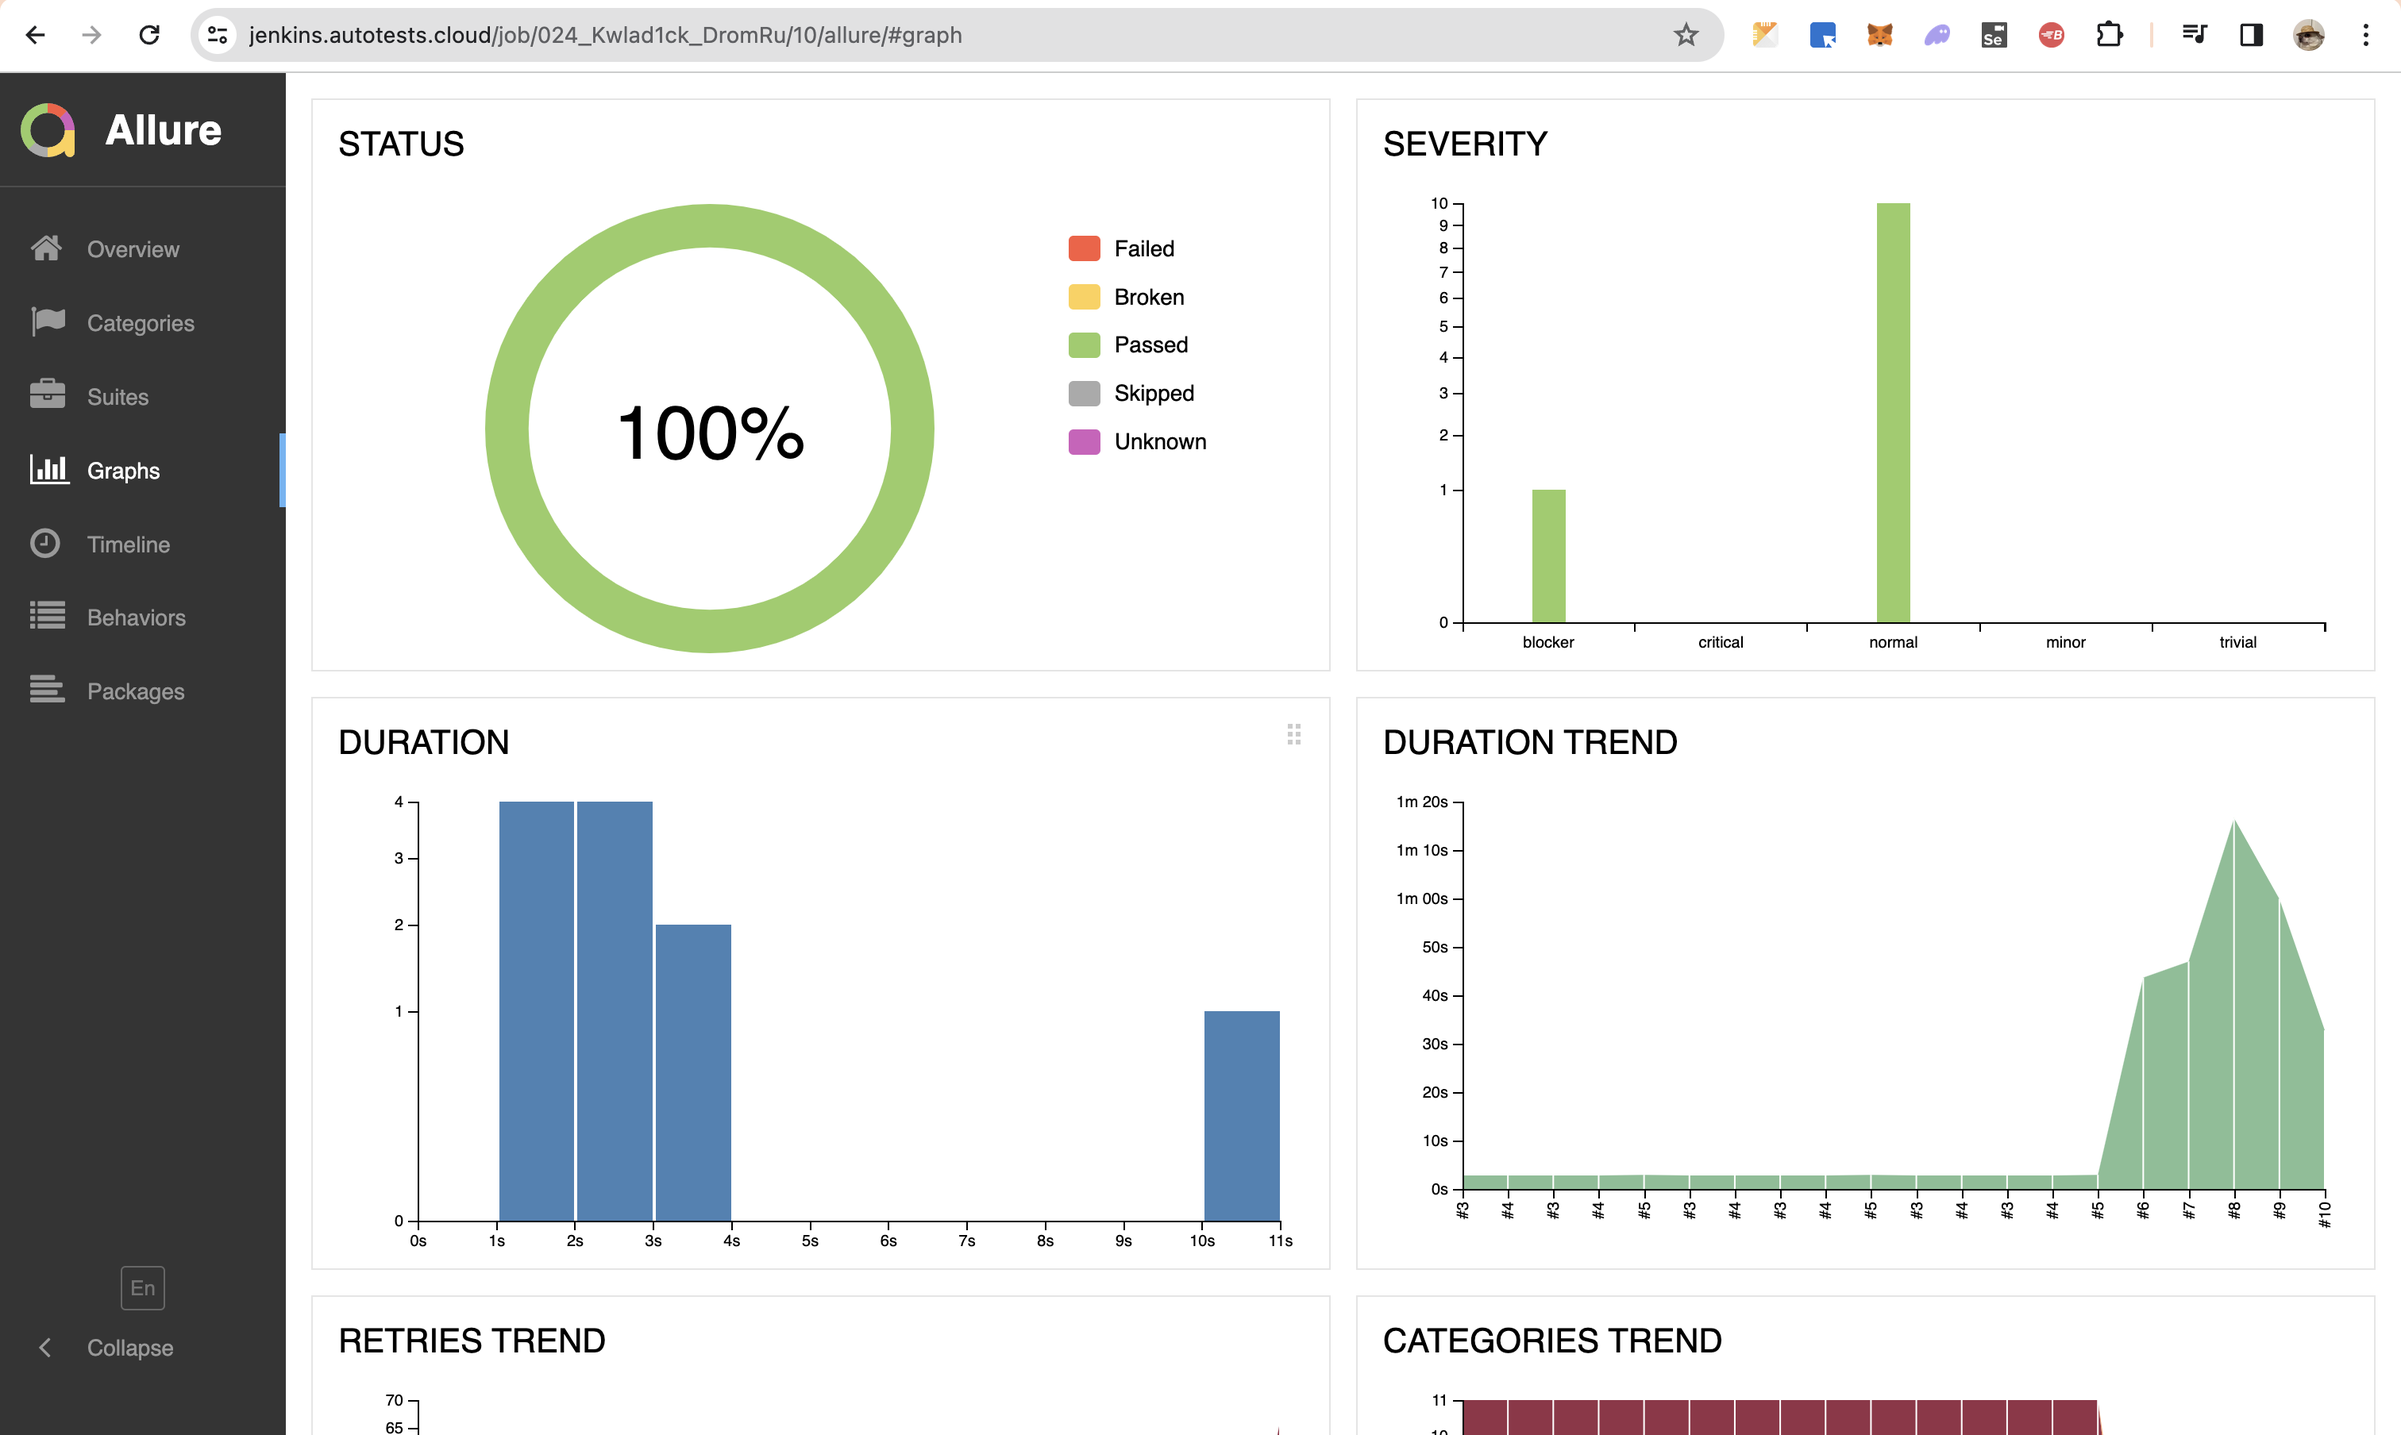
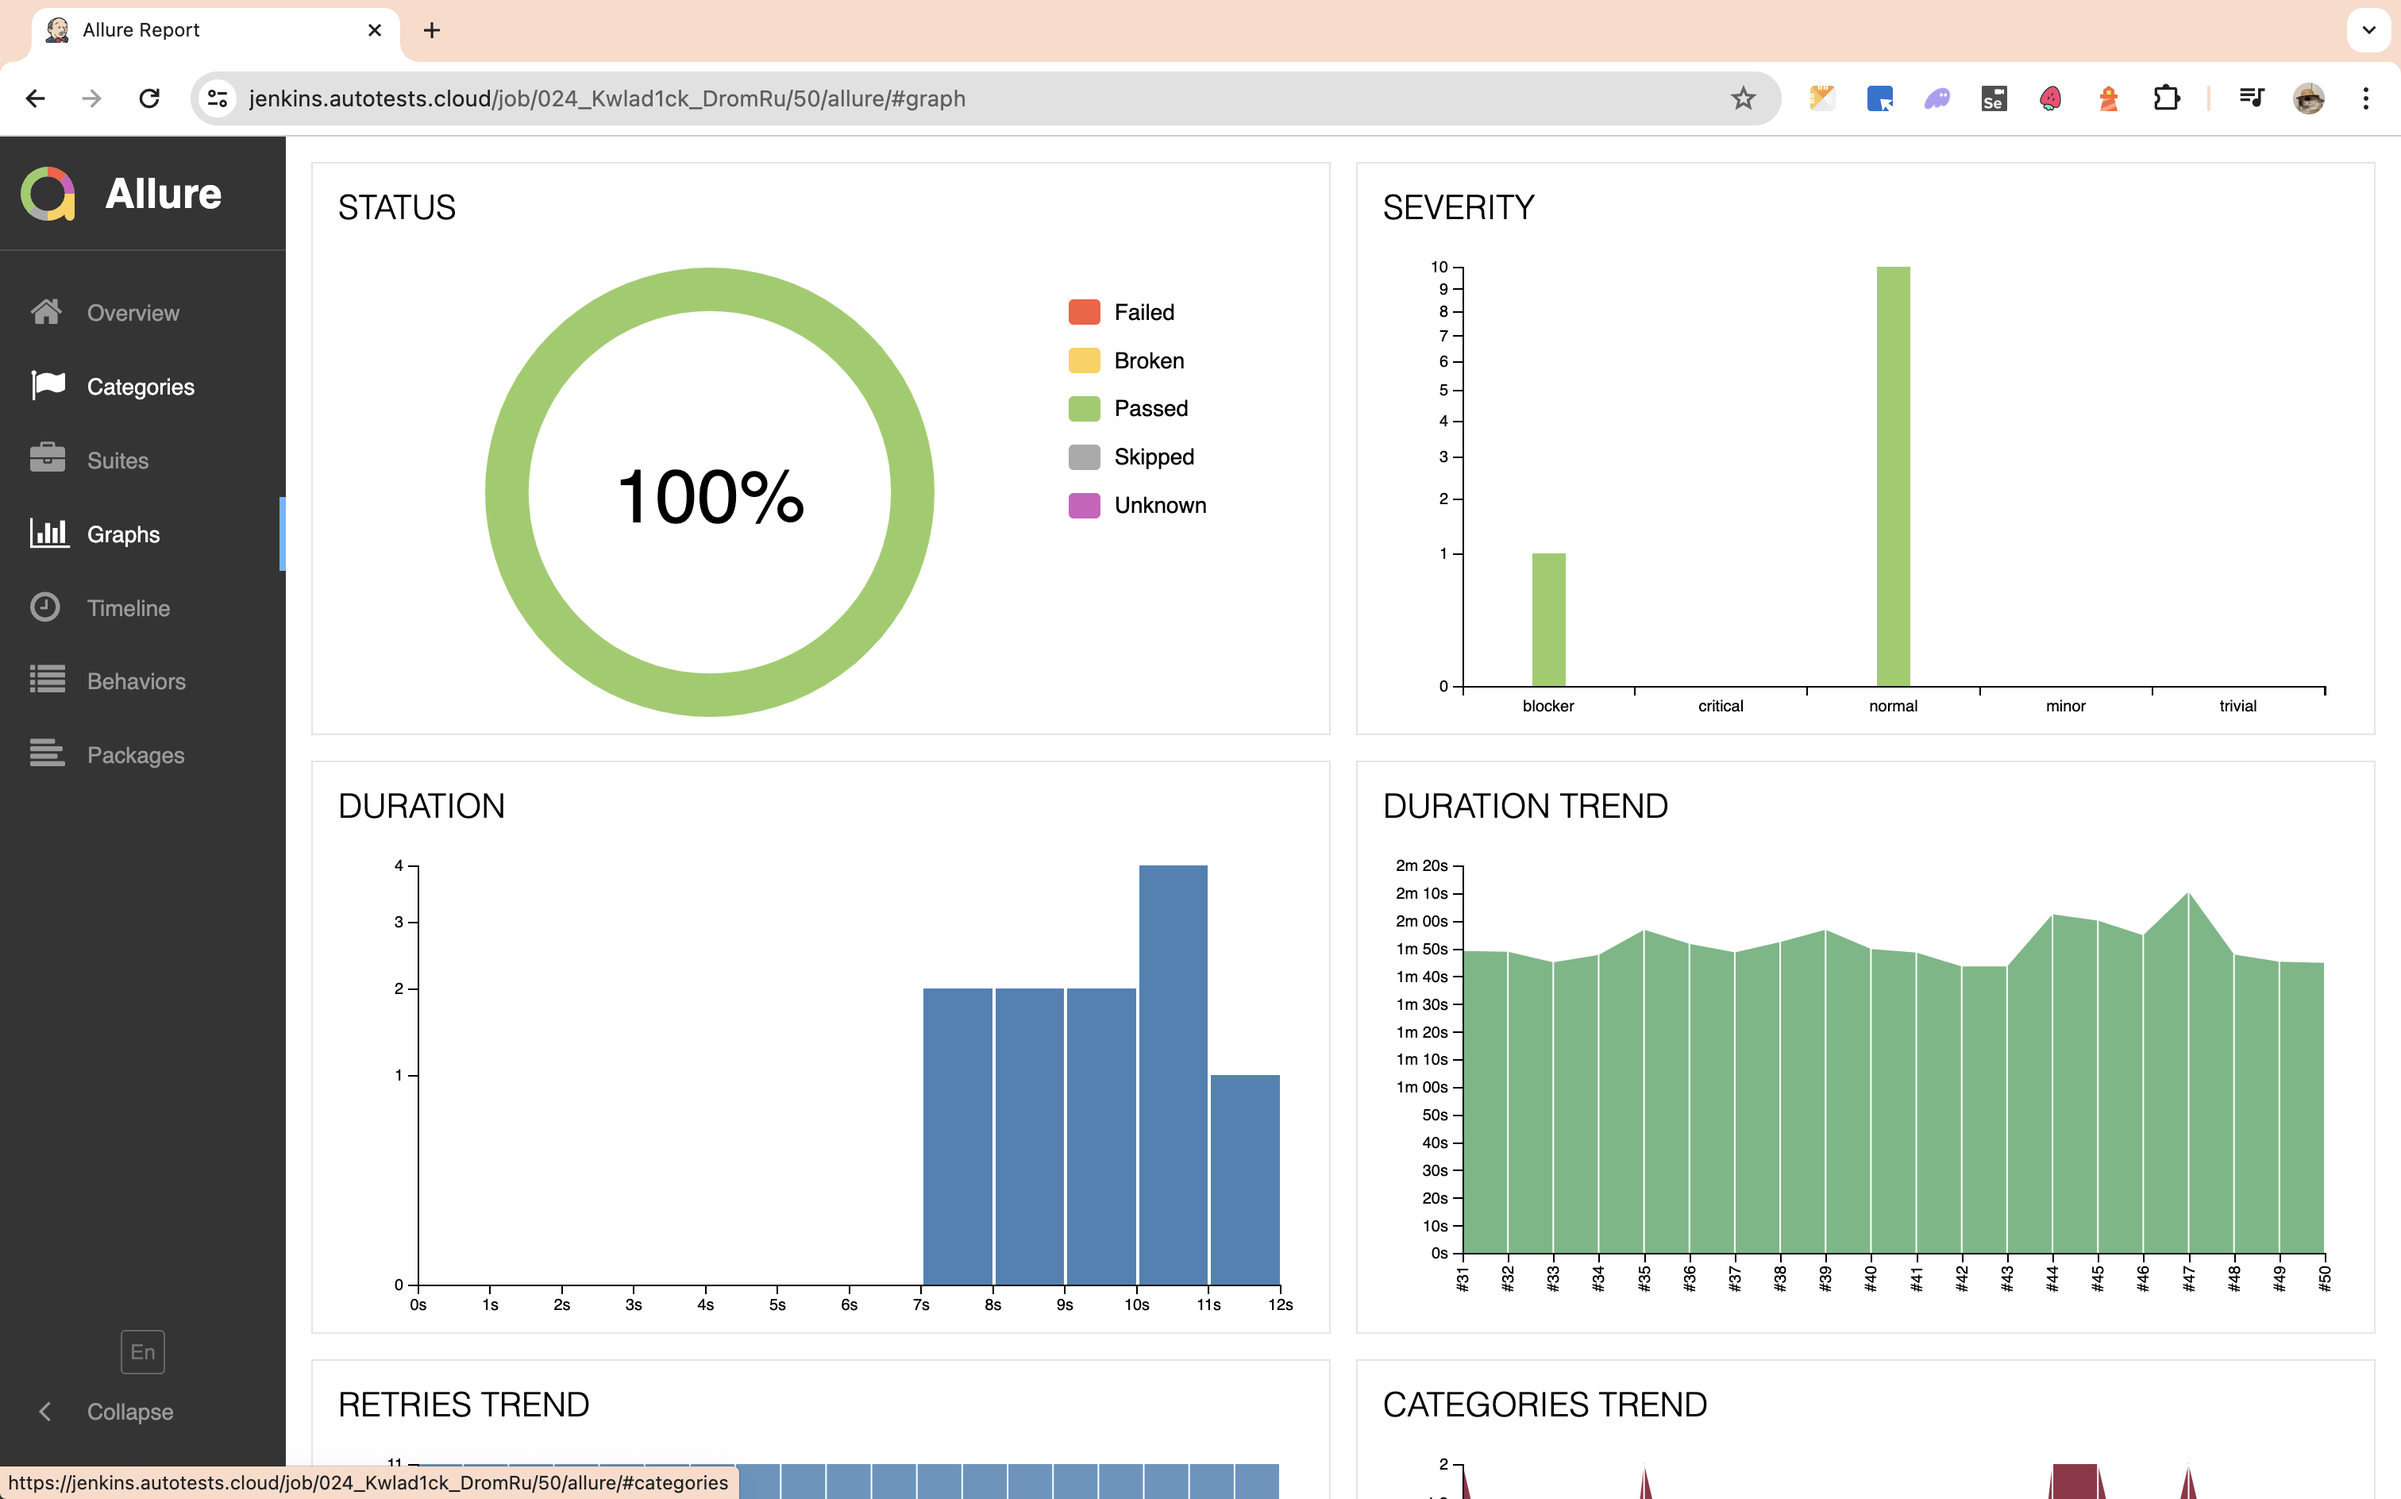
Change Readme

diff --git a/README.md b/README.md
@@ -121,10 +121,10 @@ clean test
 <img title="Dashboard Allure TestOps" src="media/screenshots/TestOpsDashboard.png">
 </p>
 
-### :checkered_flag: Результат выполнения сборки #10
+### :checkered_flag: Результат выполнения сборки #50
 
 <p align="center">
-<img title="Сборка#10 в Allure TestOps" src="media/screenshots/TestOpsResult-10.png">
+<img title="Сборка#10 в Allure TestOps" src="media/screenshots/TestOpsResult-50.png">
 </p>
 
 ## <img width="4%" style="vertical-align:middle" title="Allure Report" src="media/logos/AllureReport.svg"> [Пример](https://jenkins.autotests.cloud/job/024_Kwlad1ck_DromRu/10/allure/) Allure-отчета
@@ -148,7 +148,7 @@ clean test
 
 ## <img width="4%" style="vertical-align:middle" title="Jira" src="media/logos/Jira.svg"> [Интеграция](https://jira.autotests.cloud/browse/HOMEWORK-1149) с Jira
 
-Реализована интеграция <code>Allure TestOps</code> с <code>Jira</code>, в задаче отображаются прикрепленные тесты и результат прогона сборки #10.
+Реализована интеграция <code>Allure TestOps</code> с <code>Jira</code>, в задаче отображаются прикрепленные тесты и результат прогона сборки #50.
 
 <p align="center">
 <img title="Тикет в Jira" src="media/screenshots/Jira.png">
